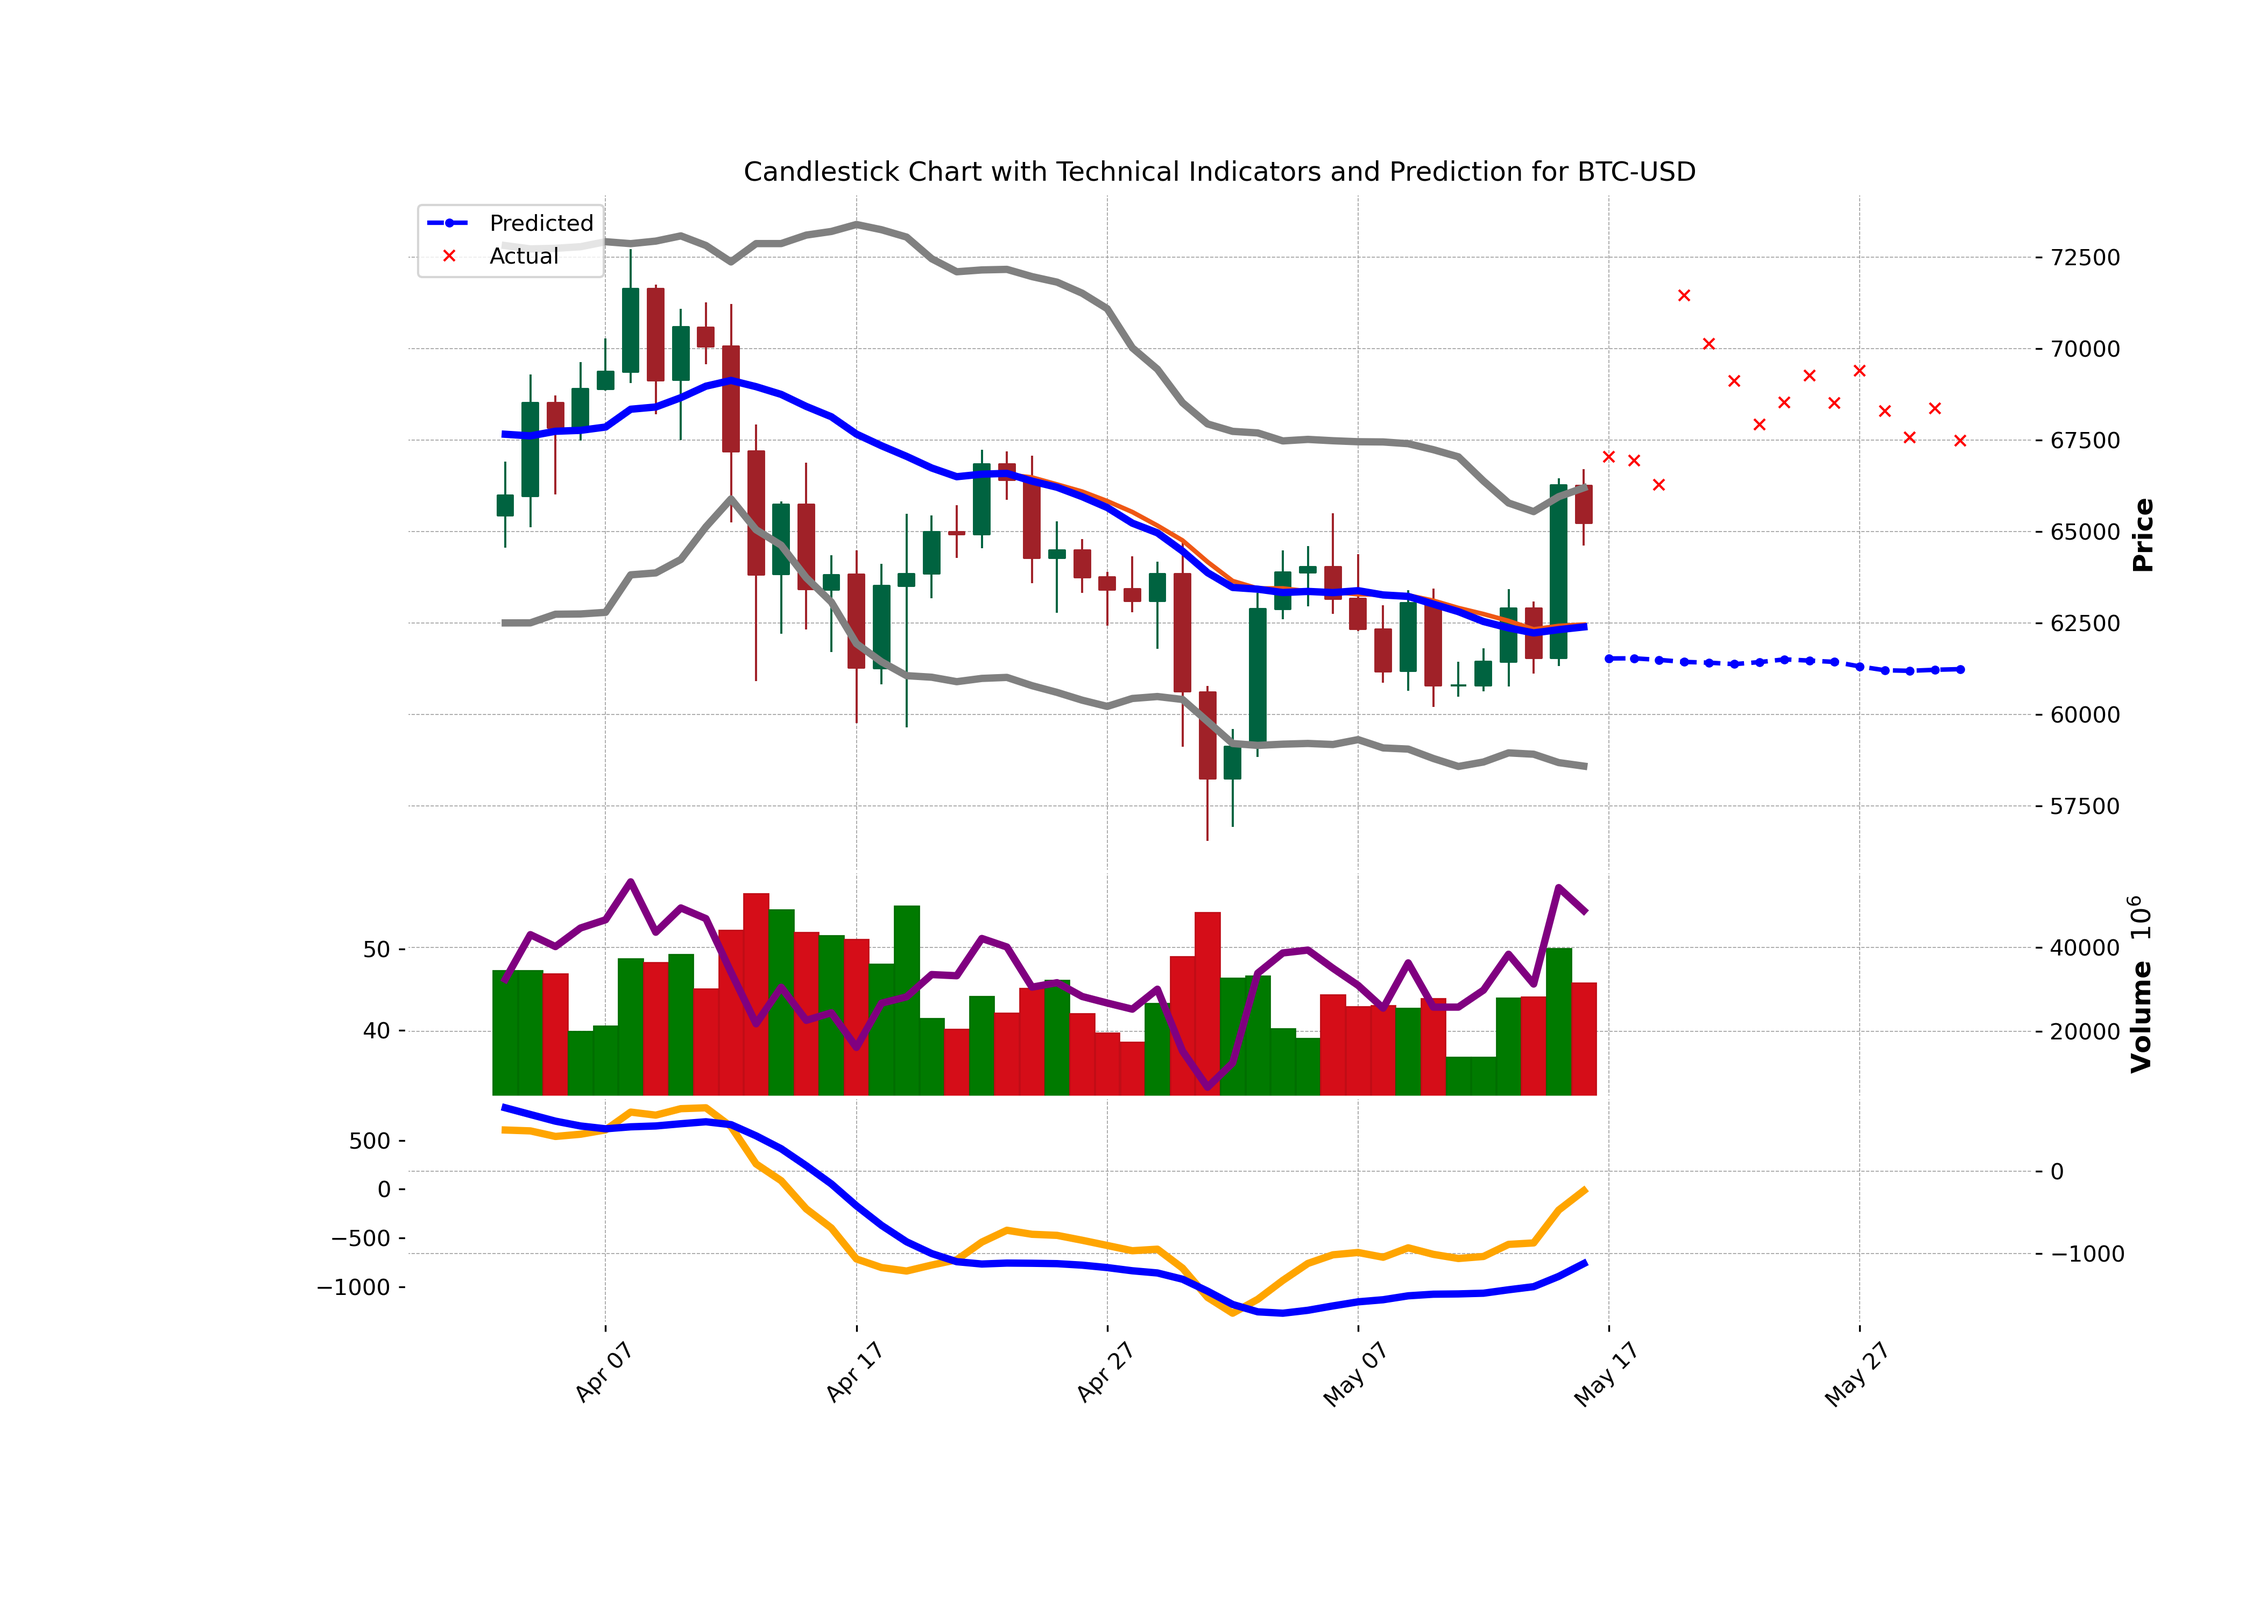
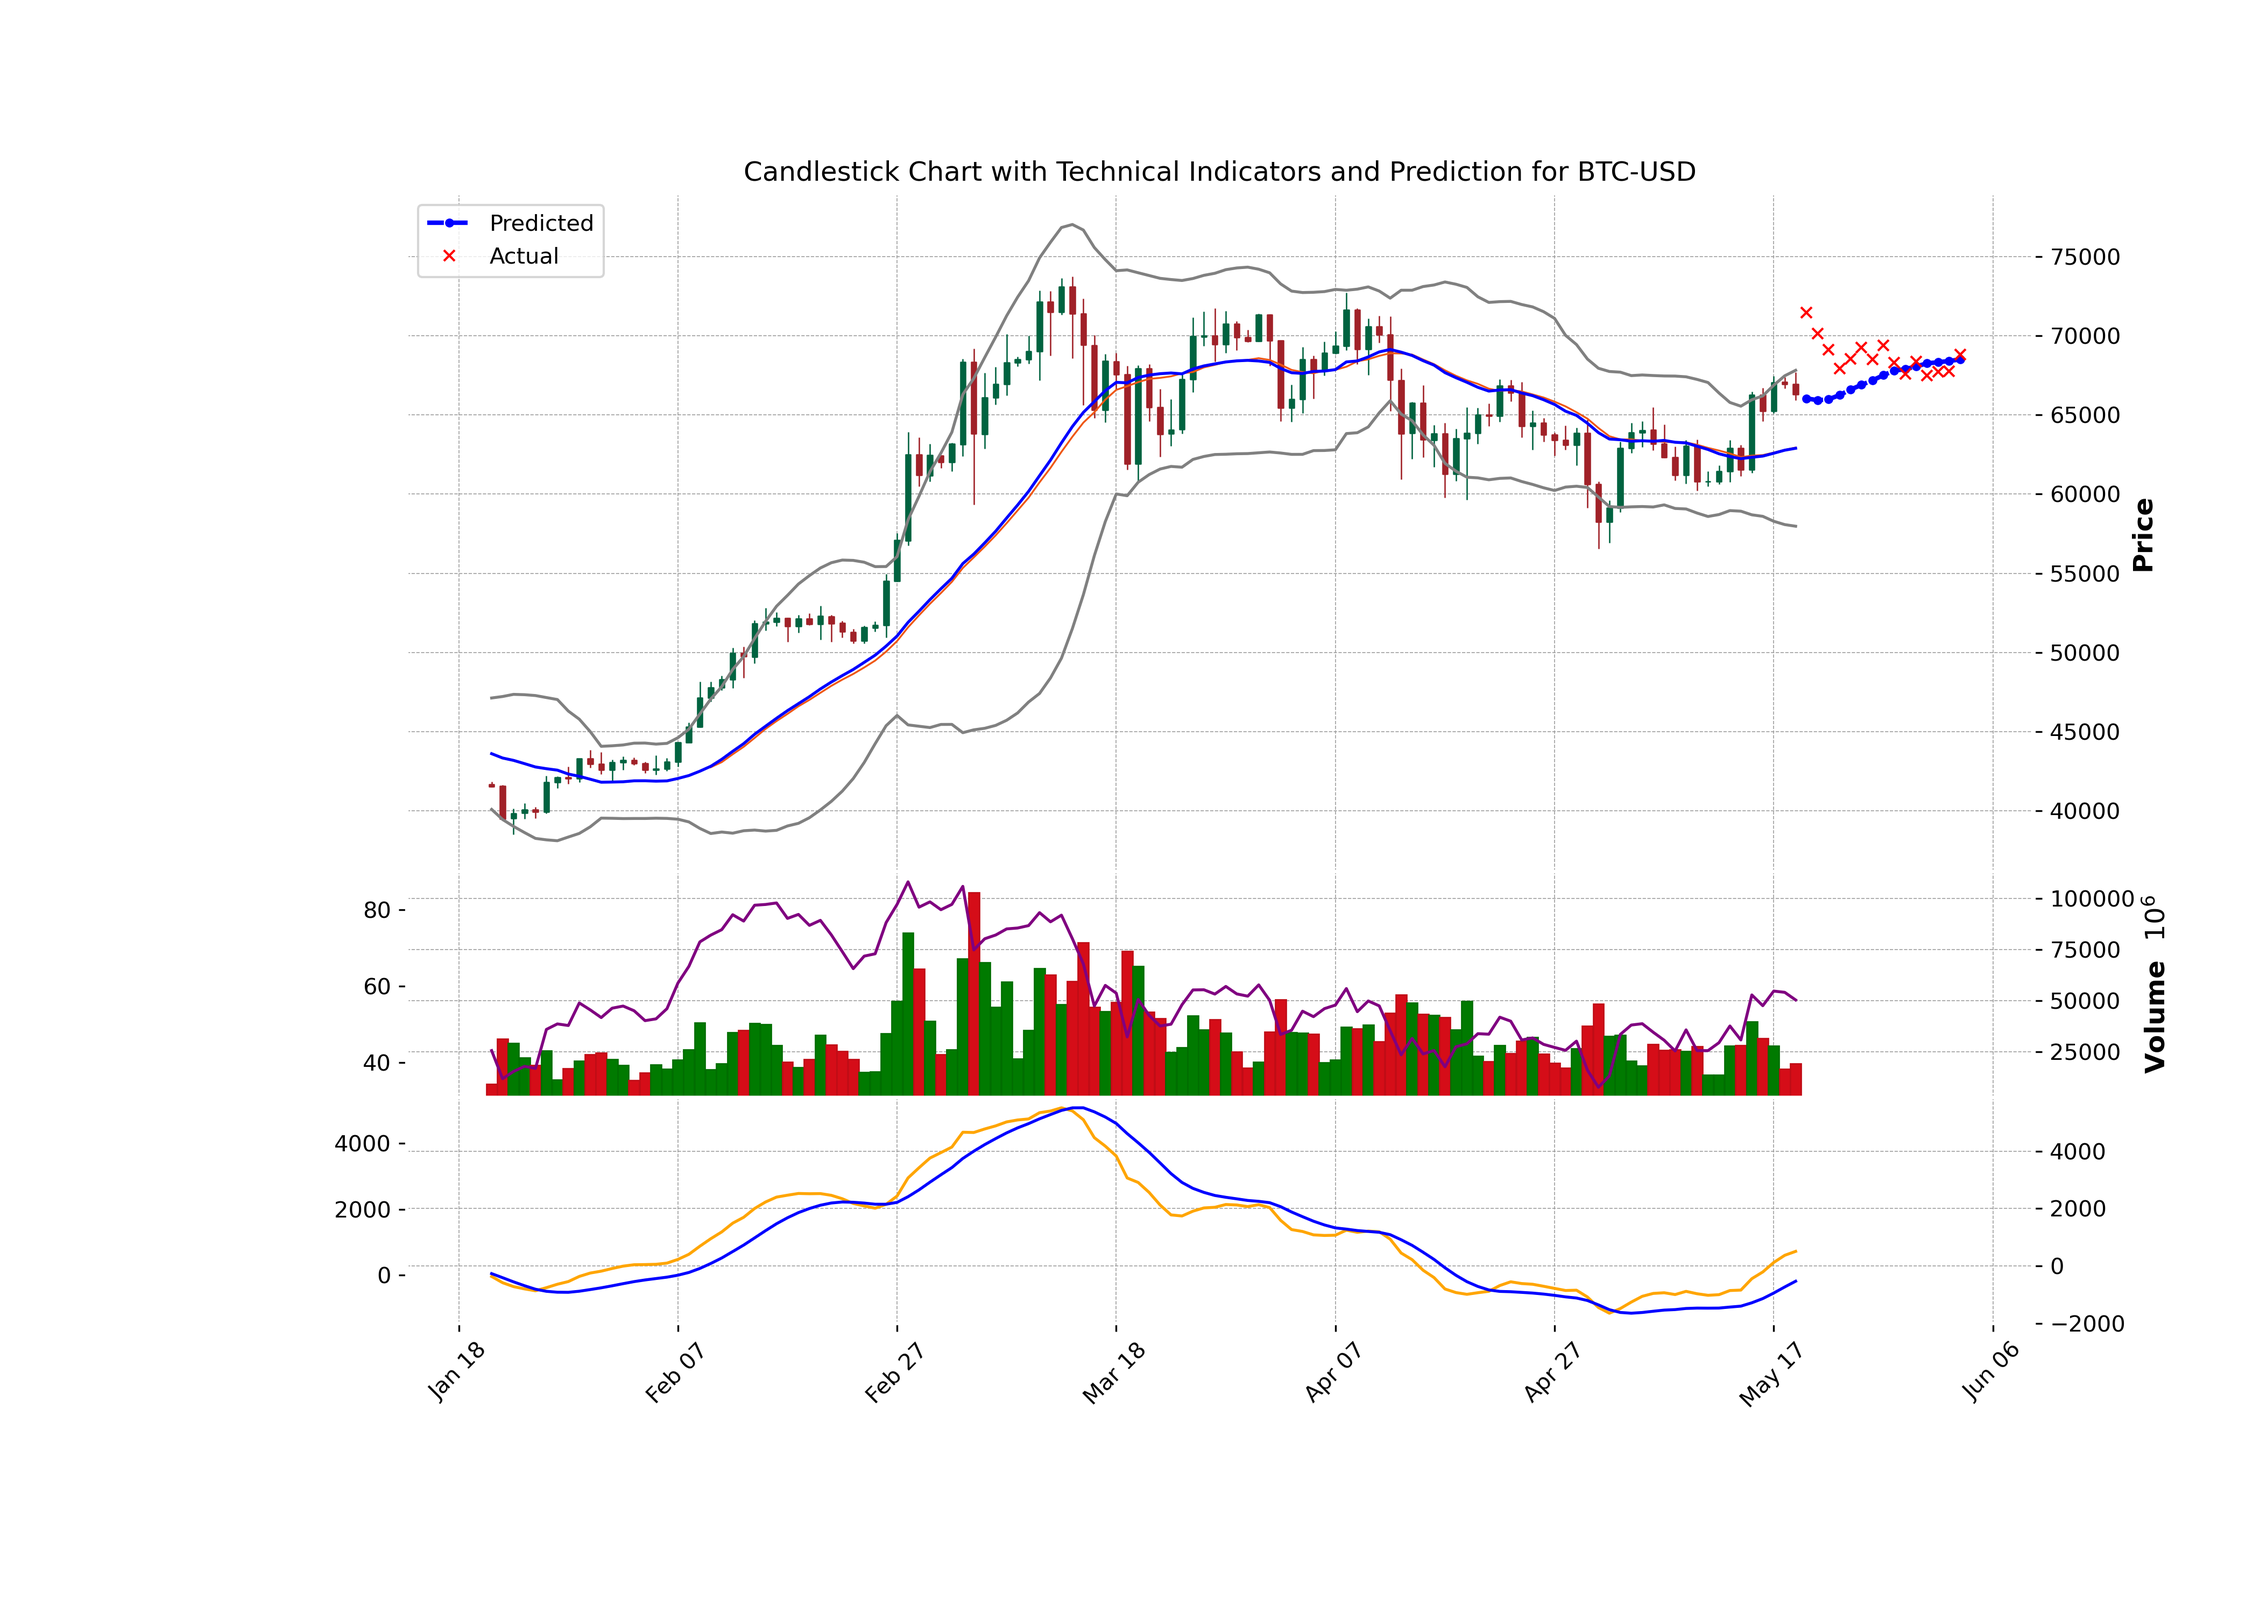
substituted OHLC inputs for candle sizes and price variation. Prediction works best. Good model also

diff --git a/predictor.py b/predictor.py
@@ -34,12 +34,19 @@ def add_technical_indicators(df):
     bb = BollingerBands(close=df['Close'], window=20, window_dev=2)
     df['BollingerUpper'] = bb.bollinger_hband()
     df['BollingerLower'] = bb.bollinger_lband()
+    
+    # Calculate new features
+    df['UpperWickSize'] = df['High'] - np.maximum(df['Open'], df['Close'])
+    df['LowerWickSize'] = np.minimum(df['Open'], df['Close']) - df['Low']
+    df['BodySize'] = np.abs(df['Close'] - df['Open'])
+    df['PriceVariation'] = df['Close'].diff()
+    
     df.dropna(inplace=True)
     return df
 
 def normalize_data(df):
     scaler = MinMaxScaler()
-    feature_columns = ['Open', 'High', 'Low', 'Close', 'SMA', 'RSI', 'MACD', 'SignalLine', 'BollingerUpper', 'BollingerLower']
+    feature_columns = ['UpperWickSize', 'BodySize', 'LowerWickSize', 'PriceVariation', 'SMA', 'RSI', 'MACD', 'SignalLine', 'BollingerUpper', 'BollingerLower']
     df_features = df[feature_columns]
     df[feature_columns] = scaler.fit_transform(df_features)
     return df, scaler
@@ -146,7 +153,7 @@ def train_model(model, data, batch_size=32, epochs=50, sequence_length=30, learn
     x_data, y_data = [], []
     for i in range(len(data) - sequence_length):
         x_data.append(data[i:i + sequence_length])
-        y_data.append(data[i + sequence_length, 3])  # We predict the Close price
+        y_data.append(data[i + sequence_length, 3])  # We predict the PriceVariation
     
     x_data, y_data = np.array(x_data), np.array(y_data)
     
@@ -231,7 +238,7 @@ def predict_and_plot(model, data, ticker, scaler, sequence_length=30, interval='
     # Preserve the date index as a column
     data['Date'] = data.index
     
-    feature_columns = ['Open', 'High', 'Low', 'Close', 'SMA', 'RSI', 'MACD', 'SignalLine', 'BollingerUpper', 'BollingerLower']
+    feature_columns = ['UpperWickSize', 'BodySize', 'LowerWickSize', 'PriceVariation', 'SMA', 'RSI', 'MACD', 'SignalLine', 'BollingerUpper', 'BollingerLower']
     data_scaled = scaler.transform(data[feature_columns])
     
     # Prepare input data for prediction without offset
@@ -251,10 +258,10 @@ def predict_and_plot(model, data, ticker, scaler, sequence_length=30, interval='
         
         # Ensure correct scaling
         predicted_value_scaled = np.zeros(len(feature_columns))
-        predicted_value_scaled[feature_columns.index('Close')] = predicted
+        predicted_value_scaled[feature_columns.index('PriceVariation')] = predicted
         
         # Inverse transform the predicted value
-        predicted_value = scaler.inverse_transform([predicted_value_scaled])[0][feature_columns.index('Close')]
+        predicted_value = scaler.inverse_transform([predicted_value_scaled])[0][feature_columns.index('PriceVariation')]
         predictions.append(predicted_value)
         
         # Update input for the next prediction step
@@ -291,8 +298,12 @@ def predict_and_plot(model, data, ticker, scaler, sequence_length=30, interval='
     else:
         actual_close_prices = None
     
+    # Adjust predictions to be the cumulative sum of the predicted variations
+    last_close = last_data['Close'].iloc[-1]
+    cumulative_predictions = np.cumsum(predictions) + last_close
+    
     # Plot the candlestick chart with previous data and predicted values
-    plot_candlestick(last_data, future_dates, predictions[:len(future_dates)], actual_close_prices, ticker, feature_columns, scaler, display_plot, plot_tech_indicators, historical_data_length)
+    plot_candlestick(last_data, future_dates, cumulative_predictions[:len(future_dates)], actual_close_prices, ticker, feature_columns, scaler, display_plot, plot_tech_indicators, historical_data_length)
 
 if __name__ == "__main__":
     tickers = ['BTC-USD', 'ETH-USD', 'BNB-USD', 'ADA-USD', 'XRP-USD', 'SOL-USD', 'DOT-USD', 'DOGE-USD', 'UNI-USD', 'LTC-USD', 
@@ -300,22 +311,22 @@ if __name__ == "__main__":
     
     chosen_ticker = 'BTC-USD'
     mode = 'predict'
-    continue_training = False  # Set this to False to train from scratch
+    continue_training = True  # Set this to False to train from scratch
     
     # Hyperparameters
     sequence_length = 15  # Sequence length
     batch_size = 12       # Batch size
-    epochs = 50          # Number of epochs
-    learning_rate = 0.0001 # Learning rate
+    epochs = 200          # Number of epochs
+    learning_rate = 0.001 # Learning rate
     interval = '1d'       # Data interval
     log_dir = 'runs'      # Directory for TensorBoard logs
     model_path = 'model.pth'  # Model save path
     plot_tech_indicators = True
-    start_date = '2024-03-01'
-    end_date = '2024-06-01'
+    start_date = '2023-01-01'
+    end_date = '2024-06-04'
     align_prediction_with_data = True  # Set this flag to align prediction with available data
-    historical_data_length = 60  # Set the length of historical data to be used
-    training_loops = 10  # Define how many times the training loop will run
+    historical_data_length = 120  # Set the length of historical data to be used
+    training_loops = 1  # Define how many times the training loop will run
 
     scaler_dict = {}
     total_losses = []
@@ -341,7 +352,7 @@ if __name__ == "__main__":
                     ticker_data = all_data[all_data['Ticker'] == ticker]
                     ticker_data, scaler_dict[ticker] = normalize_data(ticker_data)
                     print(f"Training the model with {ticker} data...")
-                    model, total_loss = train_model(model, ticker_data[['Open', 'High', 'Low', 'Close', 'SMA', 'RSI', 'MACD', 'SignalLine', 'BollingerUpper', 'BollingerLower']].values, batch_size=batch_size, epochs=epochs, sequence_length=sequence_length, learning_rate=learning_rate, log_dir=log_dir, ticker=ticker)
+                    model, total_loss = train_model(model, ticker_data[['UpperWickSize', 'BodySize', 'LowerWickSize', 'PriceVariation', 'SMA', 'RSI', 'MACD', 'SignalLine', 'BollingerUpper', 'BollingerLower']].values, batch_size=batch_size, epochs=epochs, sequence_length=sequence_length, learning_rate=learning_rate, log_dir=log_dir, ticker=ticker)
                     total_losses.append(total_loss)
             
             save_model(model, model_path)
@@ -362,7 +373,7 @@ if __name__ == "__main__":
         all_data = get_yahoo_finance_data([chosen_ticker], interval=interval, start=start_date, end=end_date)
         all_data = add_technical_indicators(all_data)
         all_data, scaler_dict[chosen_ticker] = normalize_data(all_data)
-        features = ['Open', 'High', 'Low', 'Close', 'SMA', 'RSI', 'MACD', 'SignalLine', 'BollingerUpper', 'BollingerLower']
+        features = ['UpperWickSize', 'BodySize', 'LowerWickSize', 'PriceVariation', 'SMA', 'RSI', 'MACD', 'SignalLine', 'BollingerUpper', 'BollingerLower']
         model = CNNRNNModel(input_channels=10, rnn_hidden_size=batch_size, sequence_length=sequence_length)
         model = load_model(model, model_path)
         all_data[features] = scaler_dict[chosen_ticker].inverse_transform(all_data[features])
